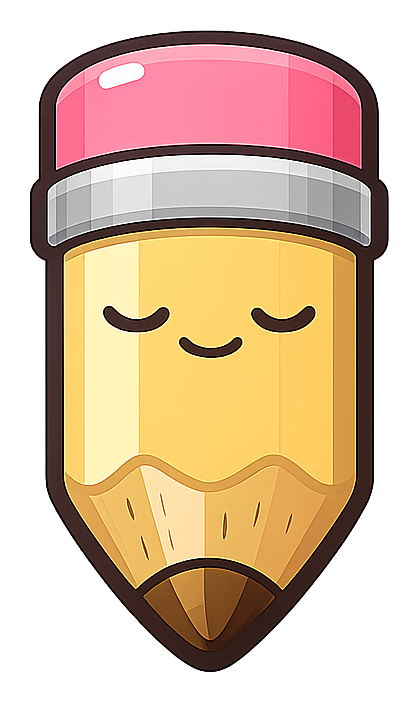
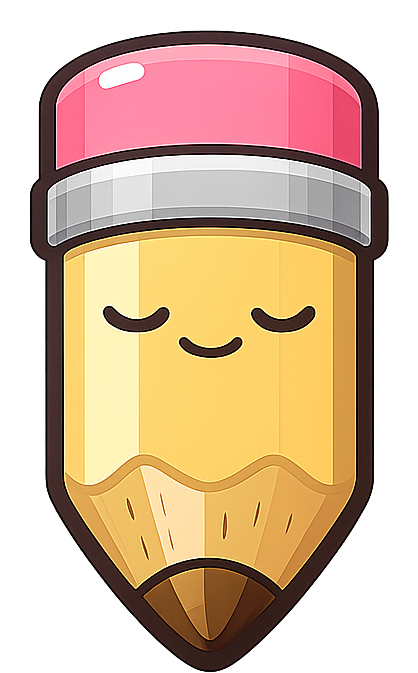
feat: writing animation tracks line perfectly, mascot crops, plan UI polish
- Writing animation: pencil tip now mathematically tracks the SVG line's leading edge
  with sub-pixel accuracy — correct X sweep (-0.64×size to +0.15×size), correct wave
  period (2π/0.725 based on arc lengths), sub-pixel Y accuracy at all peaks/troughs
- Mascot images recropped: pencil tip now at very bottom of photo (1px margin)
- StudyPlanScreen: availability sheet (non-destructive), session detail sheet,
  chips reduced to Off/1h-6h, Set All quick buttons, smart defaults (2h weekday/3h weekend)
- Header renamed My Plan, X button removed, refresh opens availability sheet

diff --git a/src/components/Mascot.js b/src/components/Mascot.js
@@ -166,28 +166,11 @@ export default function Mascot({
         ])
       ));
     } else if (variant === 'writing') {
-      // Scribble: 1.6s ease-in-out, 5 keyframes each 320ms apart.
-      // CSS: 0/100%=(0,0,0deg)  20%=(-2,1,-3deg)  40%=(2,1,3deg)  60%=(-2,1,-2deg)  80%=(2,1,2deg)
-      // Each property driven directly to its target value so no interpolation back-tracking.
-      // wX=translateX(px), wY=translateY(px), wR=rotate(deg direct value)
-      const easeIO = Easing.inOut(Easing.sin);
-      const scribble = (toX, toY, toR) => Animated.parallel([
-        Animated.timing(v.wX, { toValue: toX, duration: 320, easing: easeIO, useNativeDriver: true }),
-        Animated.timing(v.wY, { toValue: toY, duration: 320, easing: easeIO, useNativeDriver: true }),
-        Animated.timing(v.wR, { toValue: toR, duration: 320, easing: easeIO, useNativeDriver: true }),
-      ]);
+      // Single wLine loop drives everything — body position set each rAF via listener.
+      // wLine 0→1 over 1.6s (ease-out), instant reset. JS driver required for SVG props.
       anims.push(Animated.loop(Animated.sequence([
-        scribble(-2,  1, -3), // 0→20%
-        scribble( 2,  1,  3), // 20→40%
-        scribble(-2,  1, -2), // 40→60%
-        scribble( 2,  1,  2), // 60→80%
-        scribble( 0,  0,  0), // 80→100% back to rest
-      ])));
-      // Line: line-grow (dashoffset 120→0) + line-fade (opacity stays 1 until 80% then→0)
-      // Both run on wLine 0→1 over 1.6s ease-out, then reset. Separate from body.
-      anims.push(Animated.loop(Animated.sequence([
-        Animated.timing(v.wLine, { toValue: 1, duration: 1600, easing: Easing.out(Easing.quad), useNativeDriver: true }),
-        Animated.timing(v.wLine, { toValue: 0, duration: 0, useNativeDriver: true }),
+        Animated.timing(v.wLine, { toValue: 1, duration: 1600, easing: Easing.out(Easing.quad), useNativeDriver: false }),
+        Animated.timing(v.wLine, { toValue: 0, duration: 0, useNativeDriver: false }),
       ])));
     }
     // 'tap' has no idle loop — only responds to press
@@ -197,12 +180,31 @@ export default function Mascot({
 
     anims.forEach(a => a && a.start());
 
-    // Drive SVG strokeDashoffset and opacity via state listener (only for writing)
+    // Drive SVG props + body position each rAF tick via wLine listener (writing only).
+    // Body sweeps left→right in sync with the line being drawn. Y waves with the line's
+    // peaks. At 80%+ the pencil lifts off so the snap-back to start is "in the air".
     let lineListener = null;
     if (variant === 'writing') {
       lineListener = v.wLine.addListener(({ value }) => {
-        setLineDashOffset(120 - value * 120);          // 120→0
-        setLineOpacityVal(value >= 0.8 ? 1 - (value - 0.8) / 0.2 : 1); // fade at 80-100%
+        // SVG line
+        setLineDashOffset(120 - value * 120);
+        setLineOpacityVal(value >= 0.8 ? 1 - (value - 0.8) / 0.2 : 1);
+
+        // X: leading edge of drawn line goes from viewBox x=10 to x=120.4 over value 0→1.
+        // Converted to screen px relative to SVG/mascot center (viewBox x=100):
+        //   wX = (leading_x - 100) * (size*1.43/200) = (value*110.4 - 90) * size*0.00715
+        v.wX.setValue((value * 110.4 - 90) * size * 0.00715);
+
+        // Y: leading edge follows 1.25 sine cycles (up→down→up) with ~7px amplitude.
+        // baseY drops tip to line center; wave tracks actual path y with sub-pixel accuracy.
+        const baseY  = size * 0.15 + 4;
+        // Period = 87/120 = 0.725 of value range (one full up-down wave = 2 segments of 43.5 arc units)
+        const period = 0.725;
+        const waveY  = -size * 0.054 * Math.sin(value * 2 * Math.PI / period);
+        v.wY.setValue(baseY + waveY);
+
+        // Rotation: tilts with direction of travel
+        v.wR.setValue(3 * Math.cos(value * 2 * Math.PI / period));
       });
     }
 
